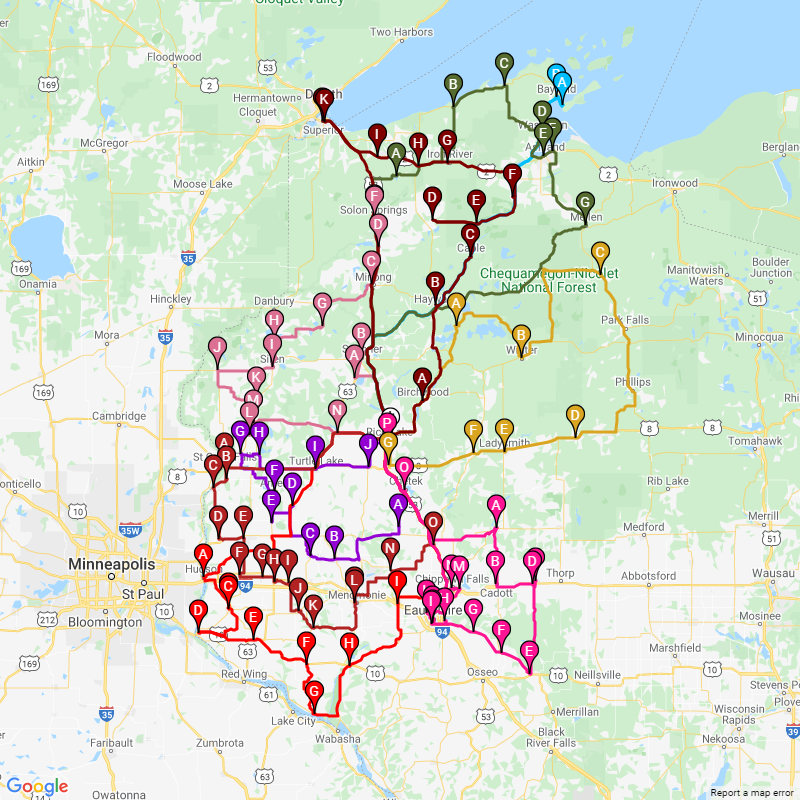
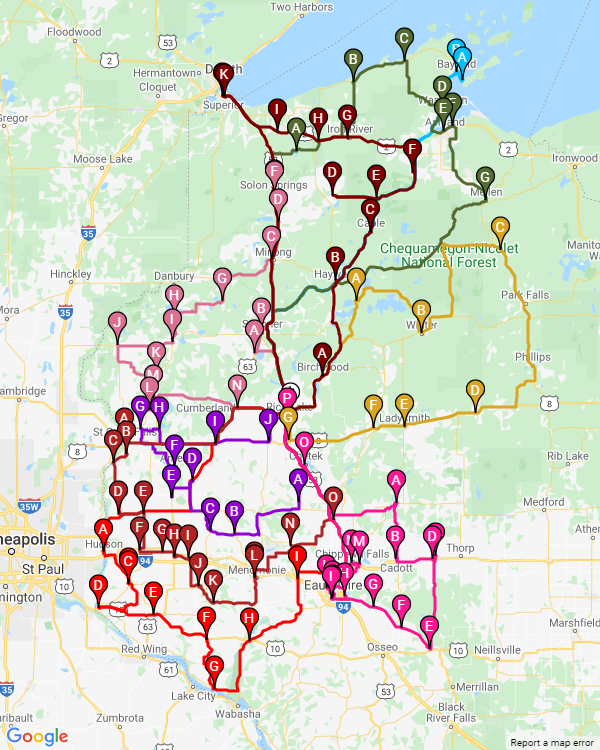
initial round of screenshot sizing for each region

diff --git a/screenshot_scraper.py b/screenshot_scraper.py
@@ -40,7 +40,7 @@ def screenshot_map(route_map, output_dir):
     # use selenium webdriver to open map file & save screenshot
     driver = webdriver.Chrome(options=chrome_options)
 
-    driver.set_window_size(800, 800)
+    driver.set_window_size(700, 500)
     #driver.set_window_size(1024, 768)
     #driver.set_window_size(800, 600)
 
@@ -71,7 +71,7 @@ def screenshot_map(route_map, output_dir):
     map_element.screenshot(png_filepath)
 
 
-map_file = 'idl1_08_02_05_000.html'
+map_file = 'str8_08_02_05_000.html'
 
 vrp_output_path = '.\\vrp_output\\'
 route_map_filepath = os.path.abspath(vrp_output_path + 'map_files\\' + map_file)
